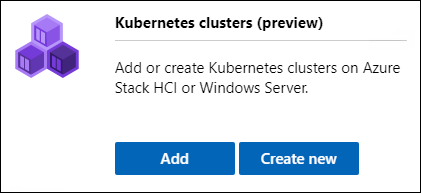
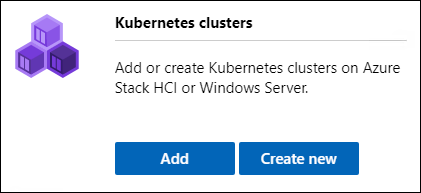
Updated versions & images

Changed region(s): [[0.5867, 0.0933, 0.772, 0.1554]]

diff --git a/eval/steps/2b_DeployAKSHCI_PS.md b/eval/steps/2b_DeployAKSHCI_PS.md
@@ -49,7 +49,7 @@ Install-PackageProvider -Name NuGet -Force
 Install-Module -Name PowershellGet -Force -Confirm:$false -SkipPublisherCheck
 ```
 
-2. Still in the **administrative PowerShell console**, run the following to uninstall previous modules and unregister private powershell repositories:
+2. Still in the **administrative PowerShell console**, run the following to uninstall previous modules and unregister any preview powershell repositories:
 
 ```powershell
 Uninstall-Module -Name AksHci -AllVersions -Force -ErrorAction:SilentlyContinue 
@@ -65,7 +65,7 @@ Exit
 3. Open a new **administrative PowerShell console**, and run the following to install the required PowerShell module and dependencies:
 
 ```powershell
-Install-Module -Name AksHci -Repository PSGallery -RequiredVersion 1.0.0 -AcceptLicense -Force
+Install-Module -Name AksHci -Repository PSGallery -RequiredVersion 1.0.2 -AcceptLicense -Force
 ```
 
 4. Once complete, if you haven't already, make sure you **close all PowerShell windows**

diff --git a/eval/steps/2a_DeployAKSHCI_WAC.md b/eval/steps/2a_DeployAKSHCI_WAC.md
@@ -342,7 +342,7 @@ Set-AksHciClusterNodeCount –Name akshciclus001 -controlPlaneNodeCount 3
 Get-AksHciCluster
 ```
 
-![Output of Get-AksHciCluster](/eval/media/get_akshcicluster_4.png "Output of Get-AksHciCluster")
+![Output of Get-AksHciCluster](/eval/media/get_akshcicluster_wac2.png "Output of Get-AksHciCluster")
 
 To access this **akshciclus001** cluster using **kubectl** (which was installed on your host as part of the overall installation process), you'll first need the **kubeconfig file**.
 

diff --git a/eval/readme.md b/eval/readme.md
@@ -14,7 +14,7 @@ In this guide, we'll walk you deploying the [Azure Kubernetes Service (AKS) on A
 
 Version
 -----------
-This guide has been tested and validated with the **May 2021 release** of AKS on Azure Stack HCI.
+This guide has been tested and validated with the **June 2021 release** of AKS on Azure Stack HCI.
 
 Contents
 -----------
